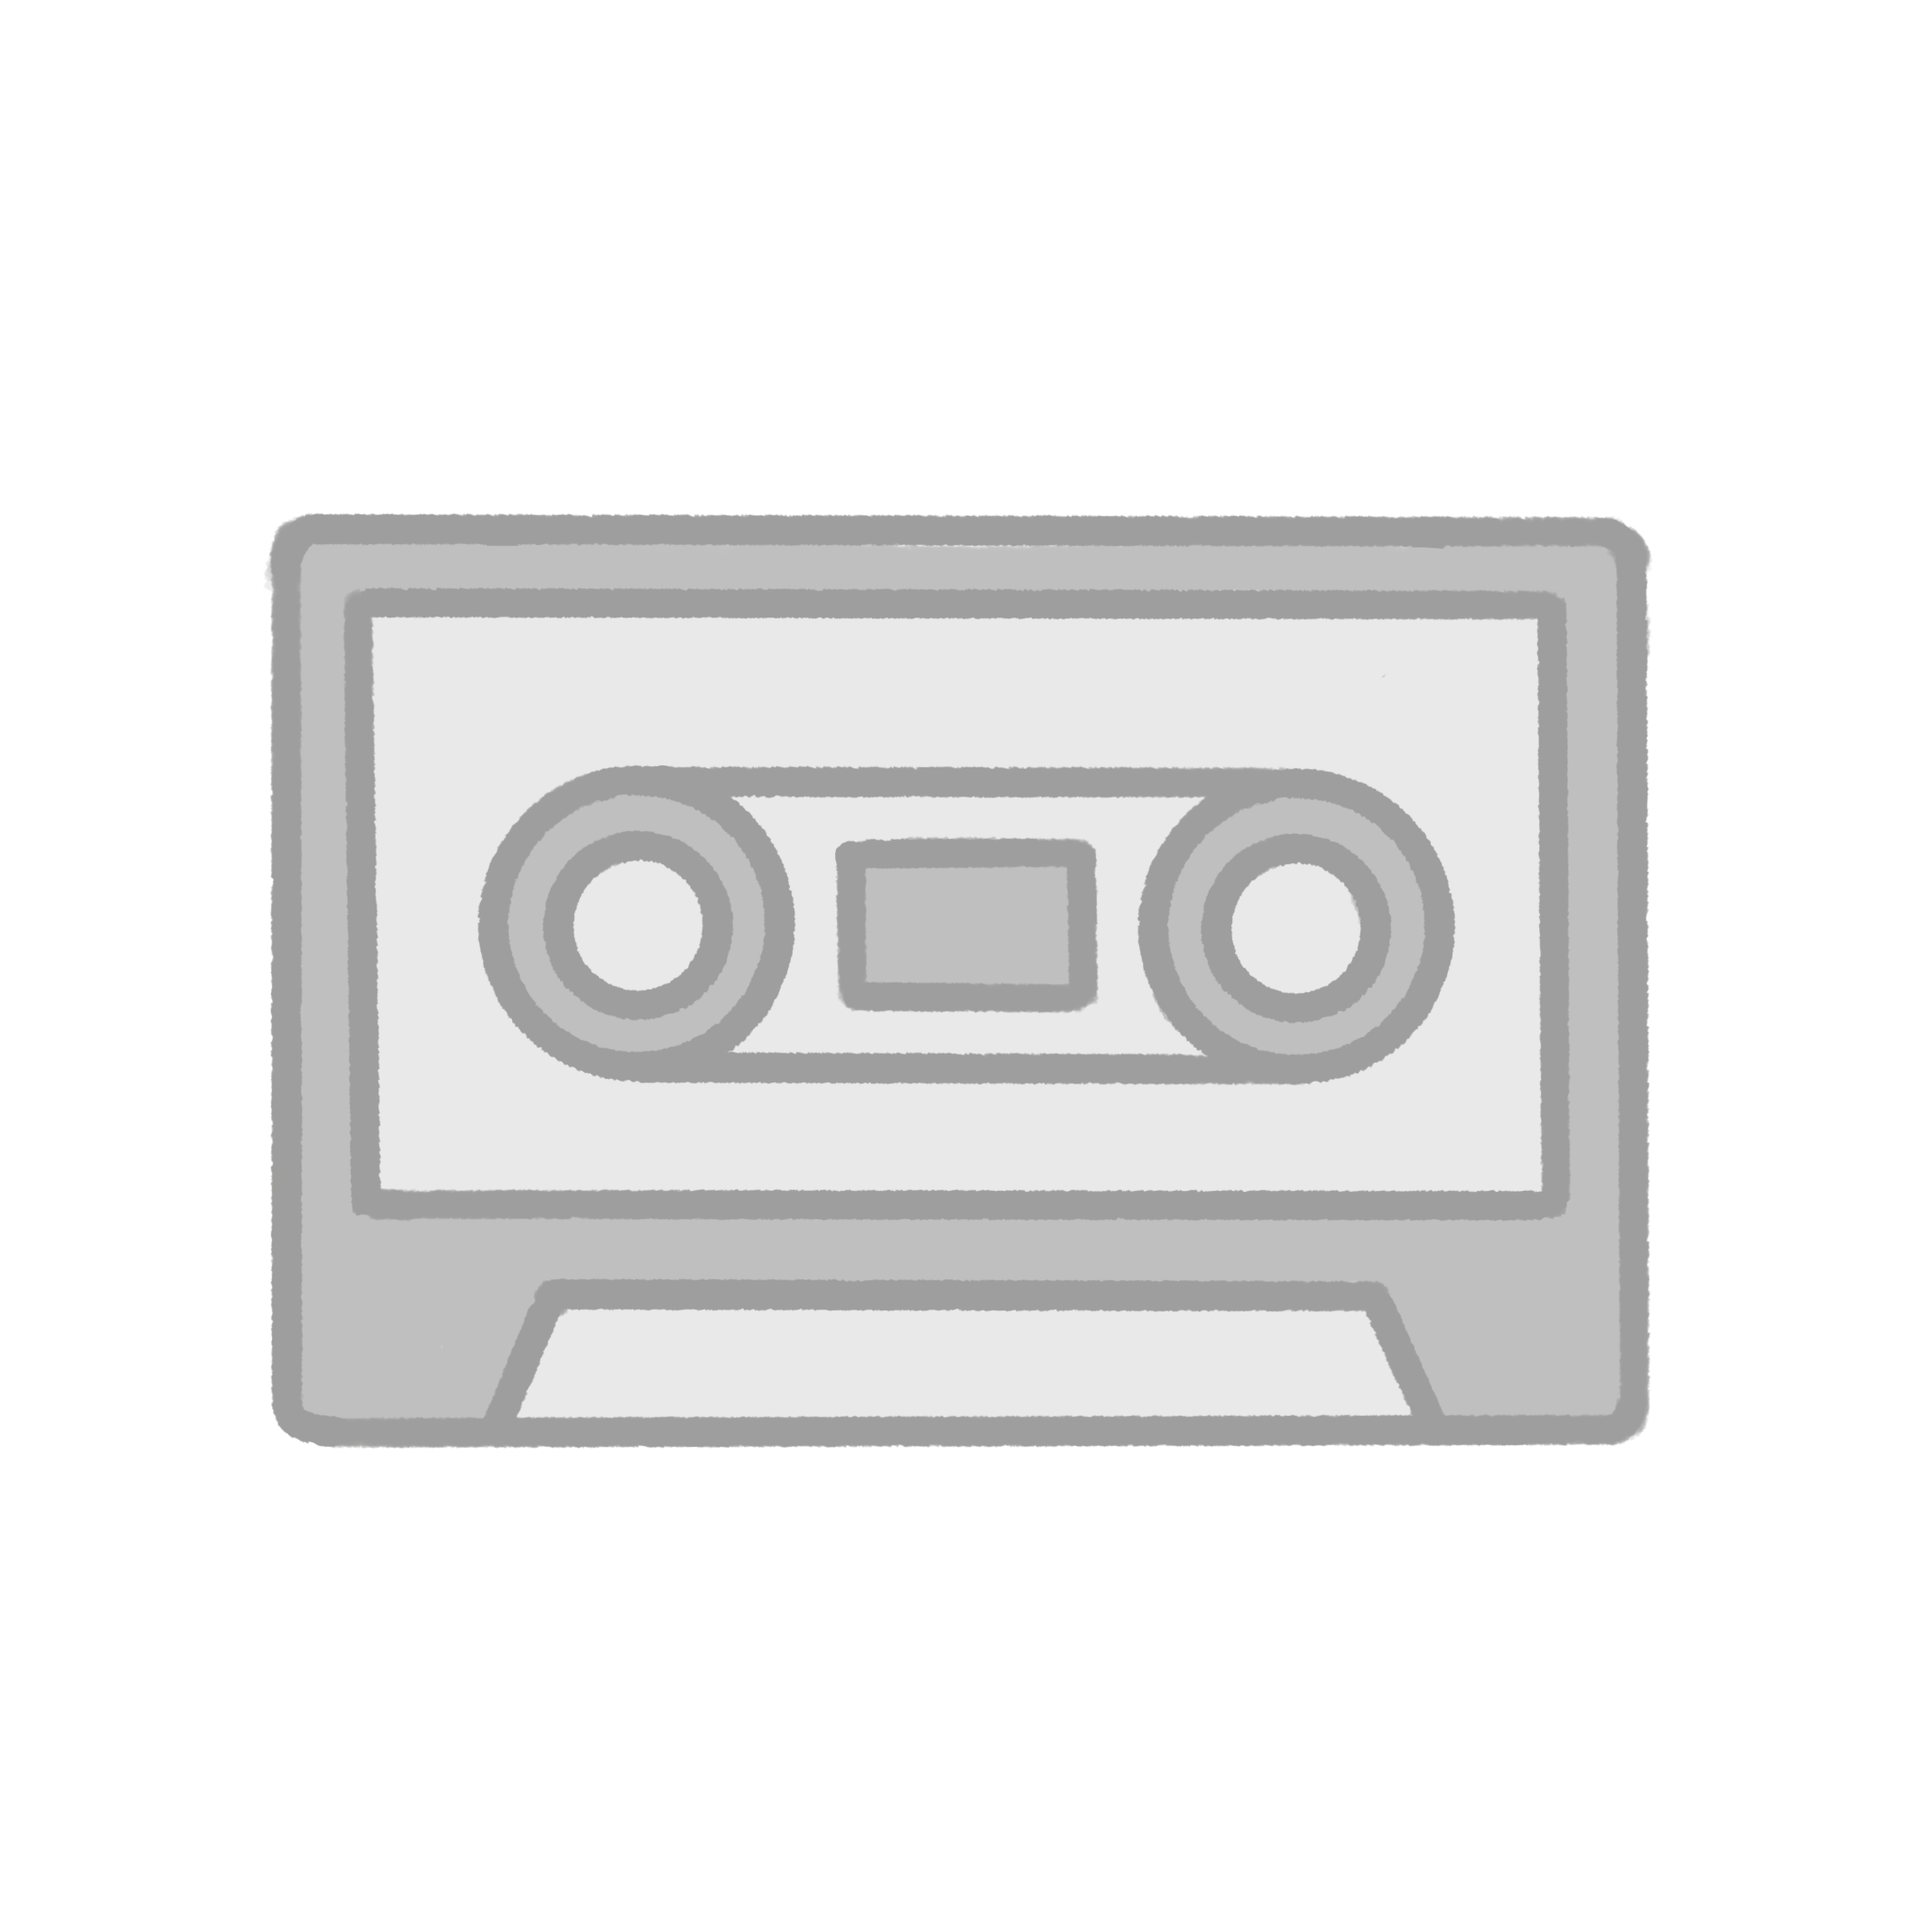
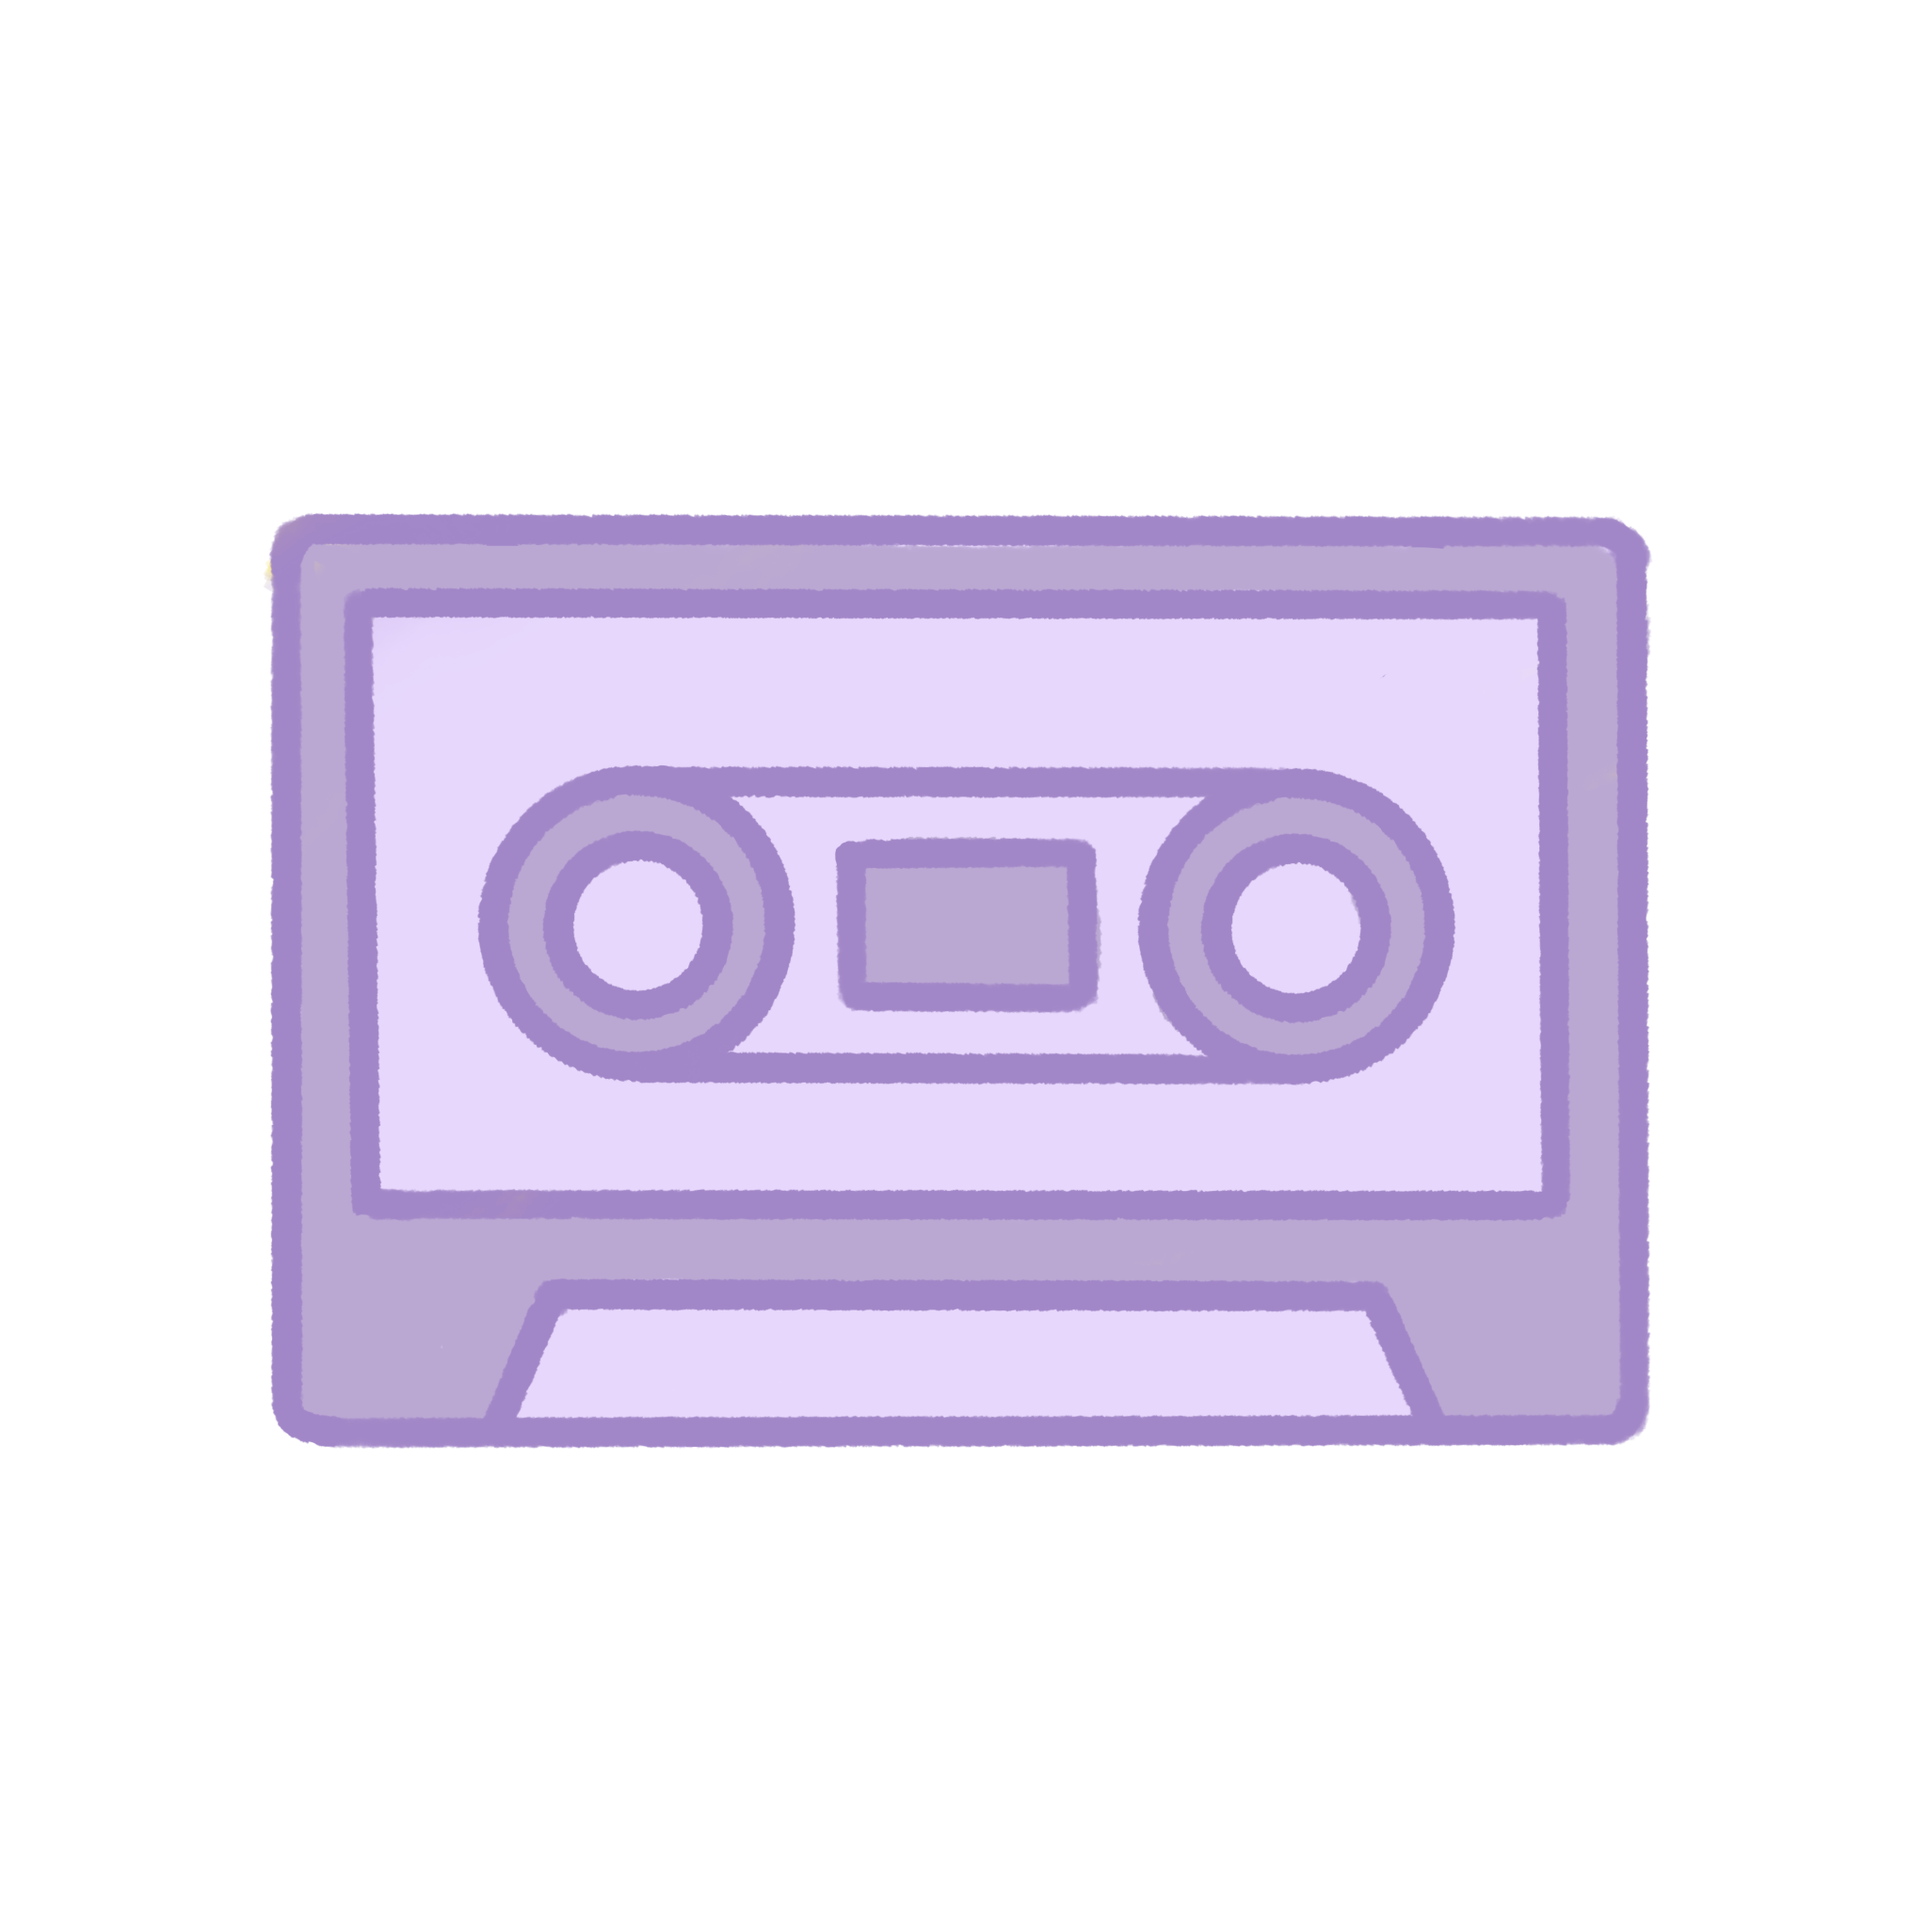
fix: 카세트 색상 오류 수정(우울과 피곤이 서로 바뀜)

Changed region(s): [[0.125, 0.25, 0.875, 0.75]]

diff --git a/src/components/SongModal.tsx b/src/components/SongModal.tsx
@@ -9,12 +9,12 @@ interface SongModalProps {
 
 const SongModal: React.FC<SongModalProps> = ({ song, onClose }) => {
   return (
-    <div className="modal-overlay">
-      <div className="modal-content">
-        <button className="close-button" onClick={onClose}>X</button>
+    <div className="song-modal-overlay">
+      <div className="song-modal-content">
+        <button className="close-button" onClick={onClose}>닫기</button>
         <h2>{song.trackName}</h2>
         <h3>{song.artistName}</h3>
-        <img src={song.artworkUrl100.replace('100x100bb', '600x600bb')} alt={song.trackName} />
+        <img src={song.artworkUrl100.replace('100x100bb', '1000x1000bb')} alt={song.trackName} />
         {song.previewUrl && <audio controls src={song.previewUrl} />}        
       </div>
     </div>

diff --git a/src/components/SavedSongsModal.tsx b/src/components/SavedSongsModal.tsx
@@ -27,8 +27,8 @@ const moodColors: { [key in SavedSongsModalProps['mood']]: string } = {
   relaxed: '#A6D1B5', 
   happiness: '#F9C1C0', 
   anxiety: '#F2AD85', 
-  depression: '#BAA8D2', 
-  tiredness: '#BFBFBF',
+  depression: '#BFBFBF', 
+  tiredness: '#BAA8D2',
 };
 
 const moodLightColors: { [key in SavedSongsModalProps['mood']]: string } = {
@@ -38,8 +38,8 @@ const moodLightColors: { [key in SavedSongsModalProps['mood']]: string } = {
   relaxed: '#C5E4CF', 
   happiness: '#FFDFDF', 
   anxiety: '#FFCAAC', 
-  depression: '#E7D7FC', 
-  tiredness: '#E9E9E9', 
+  depression: '#E9E9E9', 
+  tiredness: '#E7D7FC', 
 };
 
 const SavedSongsModal: React.FC<SavedSongsModalProps> = ({ songs, mood, onClose, onDelete }) => {

diff --git a/src/css/SongModal.css b/src/css/SongModal.css
@@ -1,0 +1,29 @@
+img {
+    width: 300px;
+    height: 300px;
+}
+
+.song-modal-overlay {
+    position: fixed;
+    top: 0;
+    left: 0;
+    width: 100%;
+    height: 100%;
+    background-color: rgba(255, 255, 255, 0.5);
+    display: flex;
+    justify-content: center;
+    align-items: center;
+    z-index: 1000;
+}
+
+
+.song-modal-content {
+    padding: 20px;
+    border-radius: 15px;
+    width: 400px;
+    background-color: #FEFBF3;
+    display: flex;
+    flex-direction: column;
+    align-items: center;
+    color: #524438;
+}

diff --git a/src/data/songData.ts b/src/data/songData.ts
@@ -3,7 +3,7 @@ export const songDatabase = {
   sadness: [1683092569, 1733432325],
   angry: [],
   relaxed: [1562632660, 1776246888],
-  happiness: [1705400235, 1476227488, 1476227488],
+  happiness: [1705400235, 1476227488],
   anxiety: [],
   depression: [1345295576, 1727654024, 1484046668],
   tiredness: []
